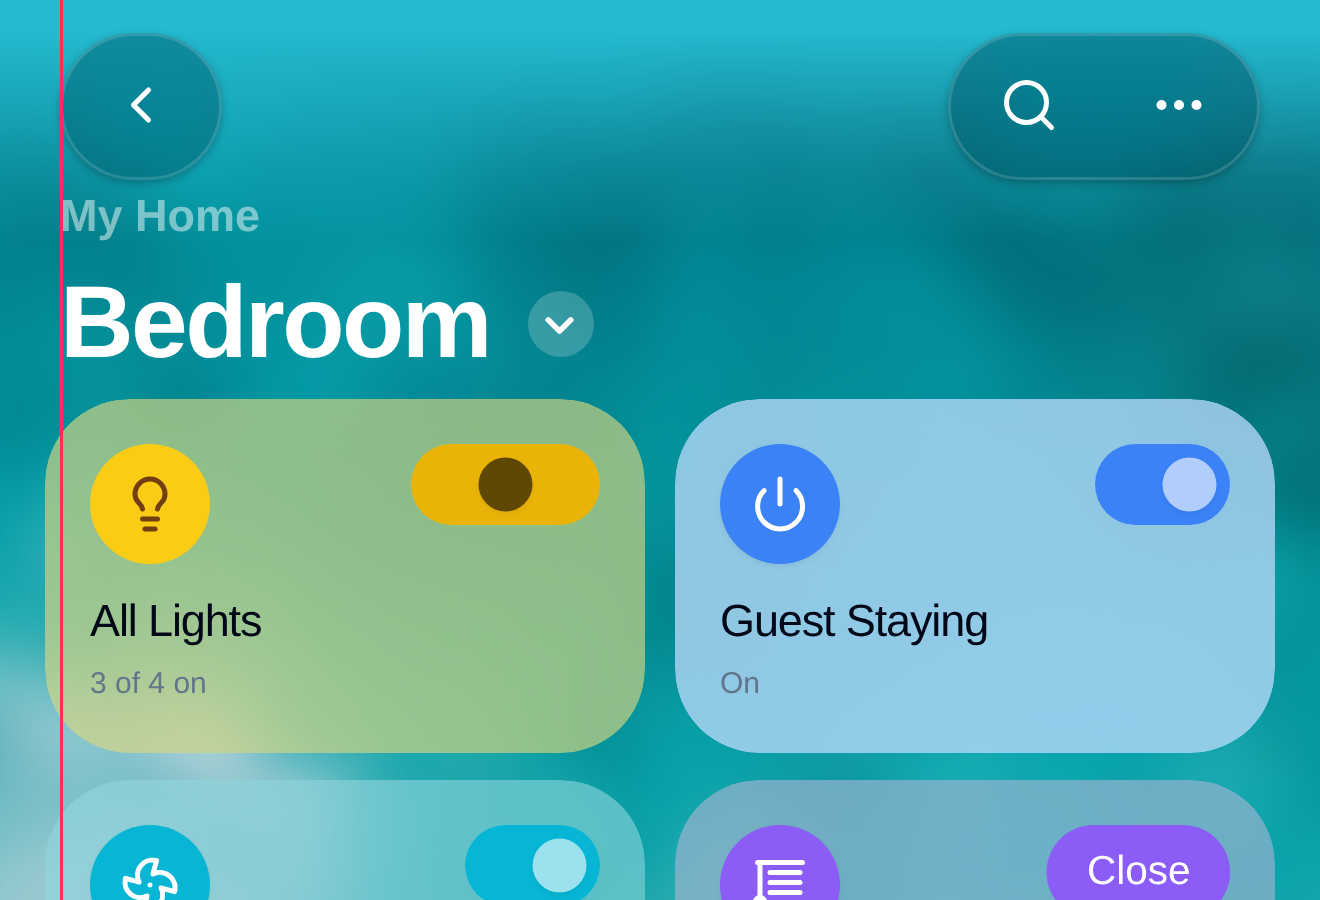
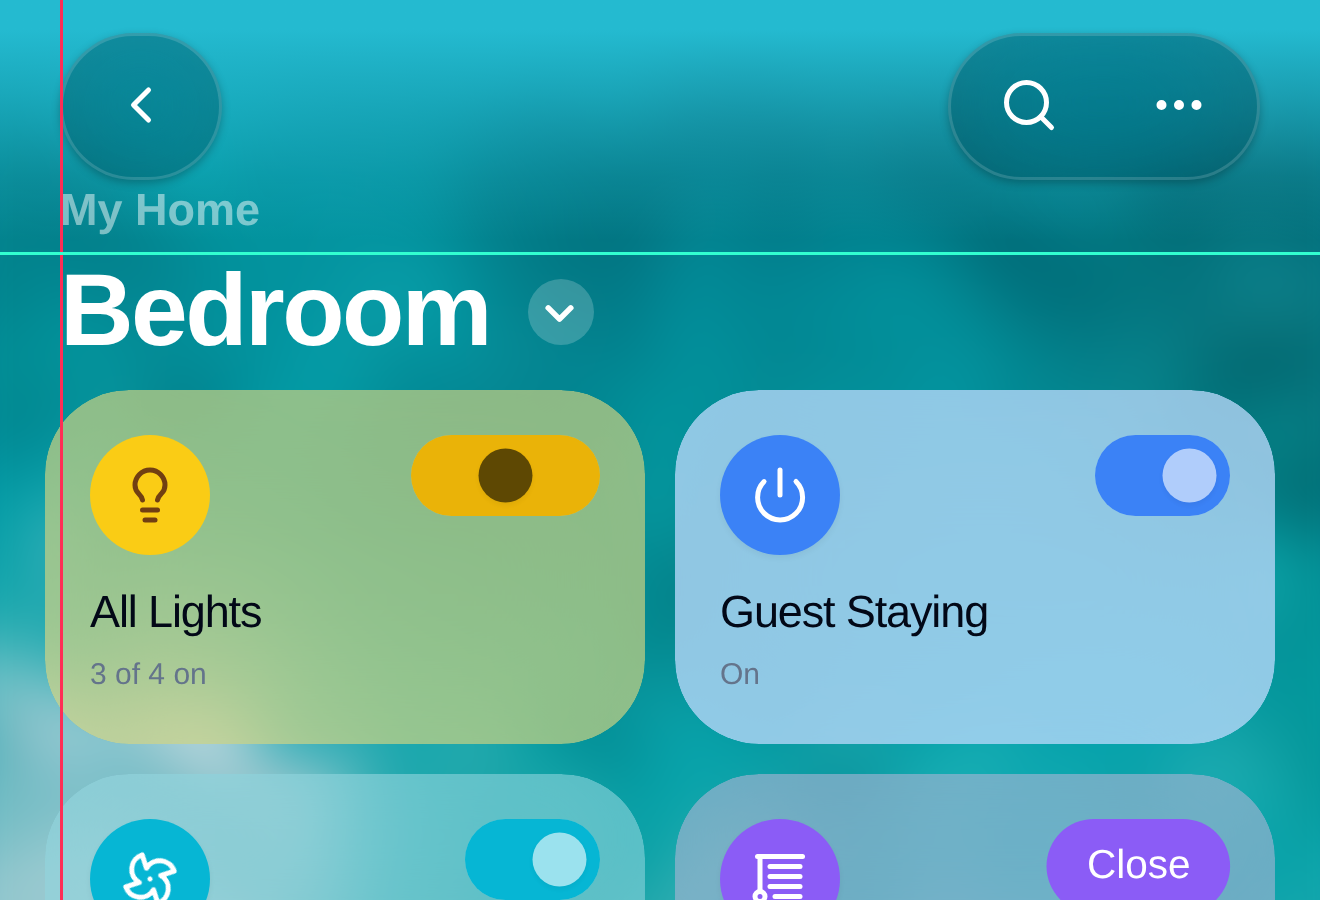
The heading's vertical metrics come from the native bar too
Asked for on review of #219: the fix should line the heading up
vertically as well as horizontally.

It should have. Measured against NativeHeaderBar.swift's own constants,
relative to the heading block's top:

                  native   web
  eyebrow bottom    20      25
  title top         23.5    27.5
  title bottom      64.5    68.5
  band height       70      72.5

So the big name sat 4px below where the native build puts it. The cause
is the same shape as the horizontal one: the path line's box was built
from the page's spacing scale (leading-5 + mb-0.5 = 27.5) rather than
from native's eyebrow (an 18pt frame at y=2, with the 41pt title line
starting at 23.5 = eyebrow + (largeTitleHeight - titleHeight) / 2).

The path line now takes native's box and the heading its band height, so
what follows the heading starts where native starts it as well. Literal
px rather than rem throughout: native's figures are absolute points and
must not drift with the root font size.

The font size needed nothing — native's eyebrow is
.preferredFont(forTextStyle: .subheadline), 15pt at default Dynamic
Type, which is what text-[15px] already was.

Only the phone's large heading is touched; the compact branch keeps its
own margin.

The guard grows a vertical case and is renamed for what it now covers.
Its capture became an assertion-free test so the "before" half can be
taken on main, where the assertions are red.

Claude-Session: https://claude.ai/code/session_01Vg46FGrjcNkaLJ1YFdWYeA

diff --git a/screenshots/heading-native-metrics.spec.ts b/screenshots/heading-native-metrics.spec.ts
@@ -1,5 +1,9 @@
 /**
- * The home name and the room name start on the header row's leading margin.
+ * The phone heading's geometry, against the numbers the native bar uses.
+ *
+ * Both axes, because both were out and for the same underlying reason: the web
+ * heading was built to the page's own spacing rather than to
+ * `NativeHeaderBar.swift`'s figures.
  *
  * parob/homecast-cloud#163: on a phone the web's big heading sat ~5px left of
  * the back chevron above it, where the native iOS build has the two flush.
@@ -34,6 +38,19 @@ const OUT = path.resolve(HERE, 'evidence', 'issue-163');
  * (with the fix stashed), then again with the default label.
  */
 const LABEL = process.env.H163_LABEL || 'after';
+
+/**
+ * Native's own layout of the heading band, read off `NativeHeaderBar.swift`
+ * (`WebHostingLayout.eyebrowHeight`, `.largeTitleHeight`, and `layoutLargeTitle`):
+ *
+ *   eyebrow  frame y = 2, height = 18          -> bottom 20
+ *   title    height 41, y = 18 + (52 - 41) / 2 -> 23.5 .. 64.5
+ *   band     eyebrow(18) + largeTitleHeight(52) = 70
+ *
+ * These are absolute point values in the native build, so the web pins them in
+ * literal px rather than rem — a root font size change must not move them.
+ */
+const NATIVE = { eyebrowBottom: 20, titleTop: 23.5, titleBottom: 64.5, band: 70 };
 
 /** The reporter's device, from the context blob on the issue. */
 const IPHONE_UA =
@@ -153,6 +170,53 @@ for (const where of ['home', 'room'] as const) {
   });
 }
 
+/**
+ * Vertical geometry, measured relative to the heading block's own top so it is
+ * comparable regardless of where the block starts — the web runs under Safari's
+ * bars and the native build under its own, and those offsets are not the
+ * heading's business.
+ */
+async function verticalMetrics(page: Page) {
+  return page.evaluate(() => {
+    const h2 = document.querySelector('h2');
+    if (!h2) throw new Error('no heading');
+    const top = h2.getBoundingClientRect().top;
+    const crumbs = h2.querySelector('span');
+    if (!crumbs) throw new Error('no path line — open a room, not the home');
+    const crumbsBox = crumbs.getBoundingClientRect();
+    const next = h2.nextElementSibling;
+    return {
+      eyebrowBottom: +(crumbsBox.bottom - top).toFixed(2),
+      titleTop: +(crumbsBox.bottom - top + parseFloat(getComputedStyle(crumbs).marginBottom)).toFixed(2),
+      titleBottom: +(h2.getBoundingClientRect().bottom - top).toFixed(2),
+      band: next ? +(next.getBoundingClientRect().top - top).toFixed(2) : null,
+    };
+  });
+}
+
+test('the heading band matches the native bar, line for line', async ({ page }) => {
+  await openHome(page);
+  await page.locator('main').getByRole('button', { name: 'Bedroom', exact: true }).first().click();
+  await expect(page.getByRole('heading', { name: /Bedroom/ })).toBeVisible();
+  await page.evaluate(() => {
+    const s = document.scrollingElement || document.documentElement;
+    s.scrollTop = 0;
+  });
+  await page.waitForTimeout(700);
+
+  const m = await verticalMetrics(page);
+  console.log('[vertical] ' + JSON.stringify(m));
+
+  // The one the report is about: the big name started 4px below where native
+  // puts it, because the path line's box was 25px rather than native's 18.
+  expect(m.titleTop).toBeCloseTo(NATIVE.titleTop, 1);
+  expect(m.eyebrowBottom).toBeCloseTo(NATIVE.eyebrowBottom, 1);
+  expect(m.titleBottom).toBeCloseTo(NATIVE.titleBottom, 1);
+  // And the whole band is the height native reserves, so what follows starts
+  // where it does there too.
+  expect(m.band).toBeCloseTo(NATIVE.band, 1);
+});
+
 test('the room page keeps the heading flush with the back chevron', async ({ page }) => {
   await openHome(page);
   await page.locator('main').getByRole('button', { name: 'Bedroom', exact: true }).first().click();
@@ -175,16 +239,43 @@ test('the room page keeps the heading flush with the back chevron', async ({ pag
   console.log('[chevron] ' + JSON.stringify({ chevron, heading: m.headingTextLeft }));
   expect(Math.abs(m.headingTextLeft - chevron)).toBeLessThanOrEqual(1);
 
-  // The picture, with a guide drawn on the margin the title should start on.
-  // A number in a log line does not show a reviewer the thing the reporter saw.
+});
+
+/**
+ * The picture. Assertion-free on purpose: it must be runnable on `main` too,
+ * to get the "before" half, and the assertions above are red there.
+ *
+ *   H163_LABEL=before  npx playwright test heading-native-metrics.spec.ts --project=screenshots
+ *
+ * Both guides are drawn from measured positions, not constants: the red one at
+ * the back chevron's own left edge, the cyan one where native would put the
+ * title's top (the heading block's top + 23.5).
+ */
+test('capture: the heading against the native guides', async ({ page }) => {
+  await openHome(page);
+  await page.locator('main').getByRole('button', { name: 'Bedroom', exact: true }).first().click();
+  await expect(page.getByRole('heading', { name: /Bedroom/ })).toBeVisible();
+  await page.evaluate(() => {
+    const s = document.scrollingElement || document.documentElement;
+    s.scrollTop = 0;
+  });
+  await page.waitForTimeout(700);
+
   fs.mkdirSync(OUT, { recursive: true });
-  await page.evaluate((x) => {
-    const g = document.createElement('div');
-    g.style.cssText =
-      `position:fixed;left:${x}px;top:0;width:1px;height:100vh;` +
-      'background:#ff2d55;z-index:2147483647;pointer-events:none';
-    document.body.appendChild(g);
-  }, chevron);
+  await page.evaluate((titleTop) => {
+    const back = document.querySelector('[data-testid="header-back"]');
+    const h2 = document.querySelector('h2');
+    if (!back || !h2) throw new Error('nothing to measure');
+    const x = (back.closest('div') ?? back).getBoundingClientRect().left;
+    const y = h2.getBoundingClientRect().top + titleTop;
+    const line = (css: string) => {
+      const g = document.createElement('div');
+      g.style.cssText = `position:fixed;z-index:2147483647;pointer-events:none;${css}`;
+      document.body.appendChild(g);
+    };
+    line(`left:${x}px;top:0;width:1px;height:100vh;background:#ff2d55`);
+    line(`left:0;top:${y}px;height:1px;width:100vw;background:#32ffd0`);
+  }, NATIVE.titleTop);
   await page.waitForTimeout(150);
   await page.screenshot({
     path: path.join(OUT, `room-heading-${LABEL}.png`),

diff --git a/screenshots/playwright.config.ts b/screenshots/playwright.config.ts
@@ -6,7 +6,7 @@ const __dirname = path.dirname(fileURLToPath(import.meta.url));
 
 export default defineConfig({
   testDir: '.',
-  testMatch: ['capture.spec.ts', 'automation-editor.spec.ts', 'initial-home-selection.spec.ts', 'login-flows.spec.ts', 'tutorial.spec.ts', 'cross-room-drag.spec.ts', 'room-visibility-surfaces.spec.ts', 'edit-layout-header.spec.ts', 'toast-alignment.spec.ts', 'accessory-visibility-surfaces.spec.ts', 'room-heading-context-menu.spec.ts', 'reveal-during-lift.spec.ts', 'sharing-settings.spec.ts', 'hidden-items-exit.spec.ts', 'hidden-items-enter.spec.ts', 'edit-layout-scroll-anchor.spec.ts', 'reveal-before-commit.spec.ts', 'edit-layout-exit-motion.spec.ts', 'automation-dialog-close.spec.ts', 'automation-toggle-centring.spec.ts', 'report-sheet.spec.ts', 'resolution-view.spec.ts', 'resolution-feedback.spec.ts', 'tab-bar-unpin-badge.spec.ts', 'edit-badge-hit-target.spec.ts', 'tab-bar-label-centring.spec.ts', 'action-failure-sheet-overflow.spec.ts', 'status-popover-overflow.spec.ts', 'header-control-chrome.spec.ts', 'accessory-picker-row-overlap.spec.ts', 'request-log-minimised.spec.ts', 'widget-sizes.spec.ts', 'status-bar-under-fullscreen-dialog.spec.ts', 'scenes-dim-in-edit-layout.spec.ts', 'hidden-pill-vs-unhide-badge.spec.ts', 'wallpaper-edge-colour.spec.ts', 'sidebar-width.spec.ts', 'phone-back-button.spec.ts', 'native-backdrop-colour.spec.ts', 'lock-battery-ink.spec.ts', 'overlay-band-colour.spec.ts', 'heading-leading-margin.spec.ts'],
+  testMatch: ['capture.spec.ts', 'automation-editor.spec.ts', 'initial-home-selection.spec.ts', 'login-flows.spec.ts', 'tutorial.spec.ts', 'cross-room-drag.spec.ts', 'room-visibility-surfaces.spec.ts', 'edit-layout-header.spec.ts', 'toast-alignment.spec.ts', 'accessory-visibility-surfaces.spec.ts', 'room-heading-context-menu.spec.ts', 'reveal-during-lift.spec.ts', 'sharing-settings.spec.ts', 'hidden-items-exit.spec.ts', 'hidden-items-enter.spec.ts', 'edit-layout-scroll-anchor.spec.ts', 'reveal-before-commit.spec.ts', 'edit-layout-exit-motion.spec.ts', 'automation-dialog-close.spec.ts', 'automation-toggle-centring.spec.ts', 'report-sheet.spec.ts', 'resolution-view.spec.ts', 'resolution-feedback.spec.ts', 'tab-bar-unpin-badge.spec.ts', 'edit-badge-hit-target.spec.ts', 'tab-bar-label-centring.spec.ts', 'action-failure-sheet-overflow.spec.ts', 'status-popover-overflow.spec.ts', 'header-control-chrome.spec.ts', 'accessory-picker-row-overlap.spec.ts', 'request-log-minimised.spec.ts', 'widget-sizes.spec.ts', 'status-bar-under-fullscreen-dialog.spec.ts', 'scenes-dim-in-edit-layout.spec.ts', 'hidden-pill-vs-unhide-badge.spec.ts', 'wallpaper-edge-colour.spec.ts', 'sidebar-width.spec.ts', 'phone-back-button.spec.ts', 'native-backdrop-colour.spec.ts', 'lock-battery-ink.spec.ts', 'overlay-band-colour.spec.ts', 'heading-native-metrics.spec.ts'],
   timeout: 60_000,
   retries: 0,
   workers: 1,

diff --git a/src/pages/Dashboard.tsx b/src/pages/Dashboard.tsx
@@ -7458,7 +7458,15 @@ const Dashboard = () => {
   // above and only the page's own name is large; the separator before that
   // name is then a line break, not a slash.
   const largeHeading = isMobile && !nativeHeaderActive;
-  const crumbsClass = largeHeading ? 'block text-[15px] leading-5 tracking-normal opacity-80 mb-0.5 truncate' : 'contents';
+  const crumbsClass = largeHeading
+    // The path line's box is native's eyebrow: a 18pt frame at y=2, with the
+    // big name's 41pt line starting at 23.5 (NativeHeaderBar.swift — `eyebrow`
+    // = WebHostingLayout.eyebrowHeight, `titleY` = eyebrow + (52 - 41) / 2).
+    // `leading-5` + `mb-0.5` came to 27.5, so the name sat 4px low against the
+    // native build. Literal px, not rem: native's figures are absolute, so they
+    // must not drift with the root font size.
+    ? 'block text-[15px] leading-[18px] pt-[2px] tracking-normal opacity-80 mb-[3.5px] truncate'
+    : 'contents';
   const crumbNameClass = largeHeading ? 'block truncate' : '';
   const renderNavItems = (items: NavItem[]): React.ReactNode => items.map((item) => {
     const Icon = item.icon;
@@ -9254,7 +9262,7 @@ const Dashboard = () => {
                     Only the title moves. The content below keeps the page's
                     `px-3`, which is what native does and what keeps the tile
                     grid where the reporter's two screenshots agree. */}
-                <h2 ref={headingRef} className={`font-bold mb-[4px] ${largeHeading ? 'text-[34px] leading-[41px] tracking-tight pl-1' : 'text-base truncate'} ${nativeHeaderActive && isMobile ? 'hidden' : ''} ${isDarkBackground ? 'text-white' : 'text-muted-foreground'}`}>
+                <h2 ref={headingRef} className={`font-bold ${largeHeading ? 'mb-[5.5px] text-[34px] leading-[41px] tracking-tight pl-1' : 'mb-[4px] text-base truncate'} ${nativeHeaderActive && isMobile ? 'hidden' : ''} ${isDarkBackground ? 'text-white' : 'text-muted-foreground'}`}>
                   {selectedRoomId ? (
                     (() => {
                       const parentGroup = roomGroups.find(g => g.roomIds.some(rid => rid.toLowerCase().replace(/-/g, '') === selectedRoomId.toLowerCase().replace(/-/g, '')));

diff --git a/screenshots/playwright.ci.config.ts b/screenshots/playwright.ci.config.ts
@@ -46,7 +46,7 @@ export default defineConfig({
     'native-backdrop-colour.spec.ts',
     'lock-battery-ink.spec.ts',
     'overlay-band-colour.spec.ts',
-    'heading-leading-margin.spec.ts',
+    'heading-native-metrics.spec.ts',
   ],
   projects: base.projects?.filter(project => project.name !== 'ipad-screenshots'),
   workers: 2,
